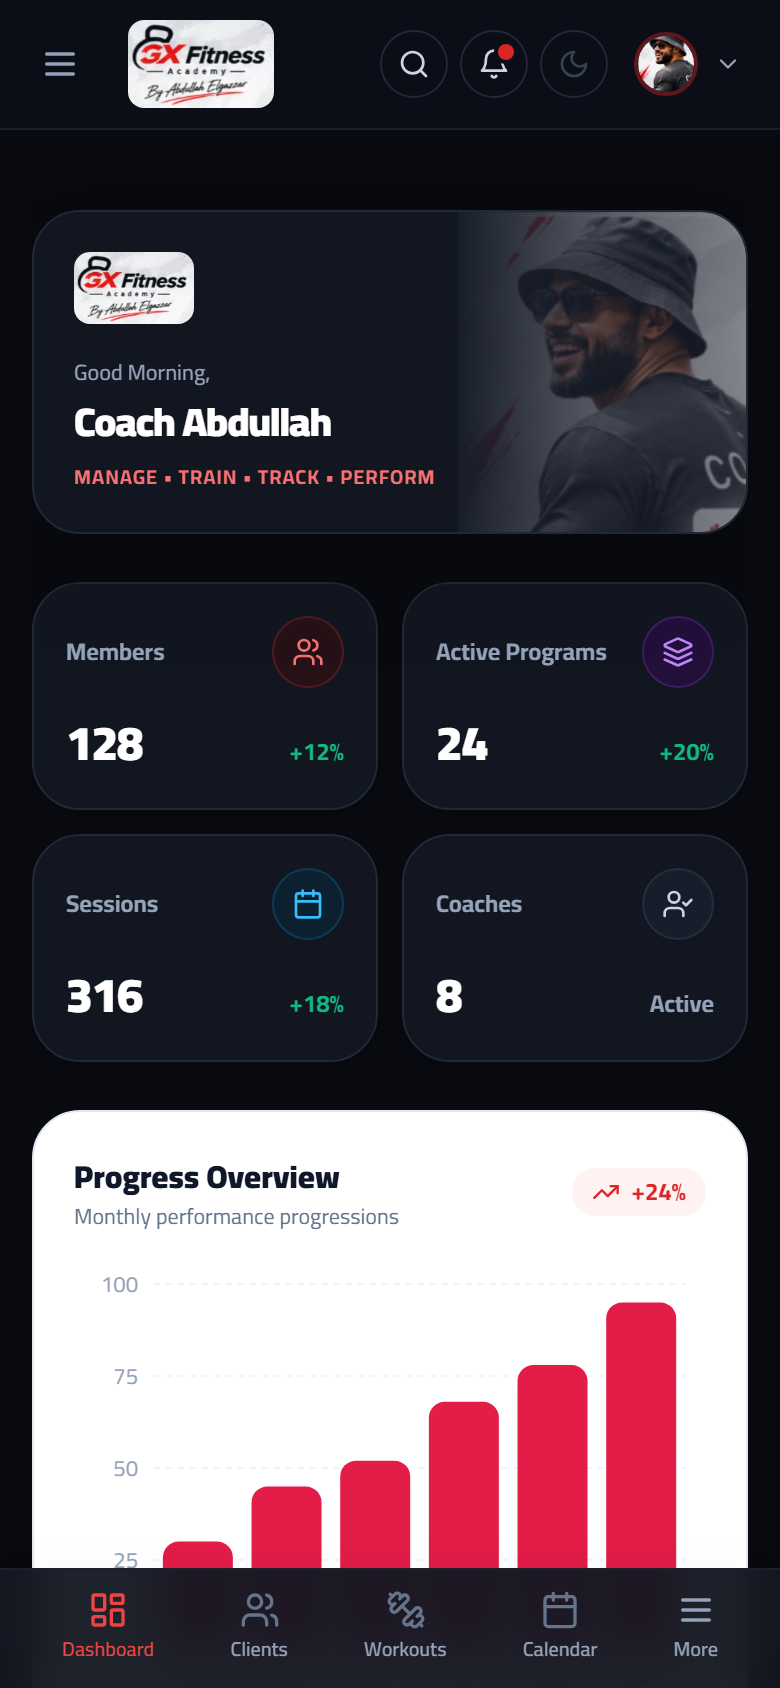
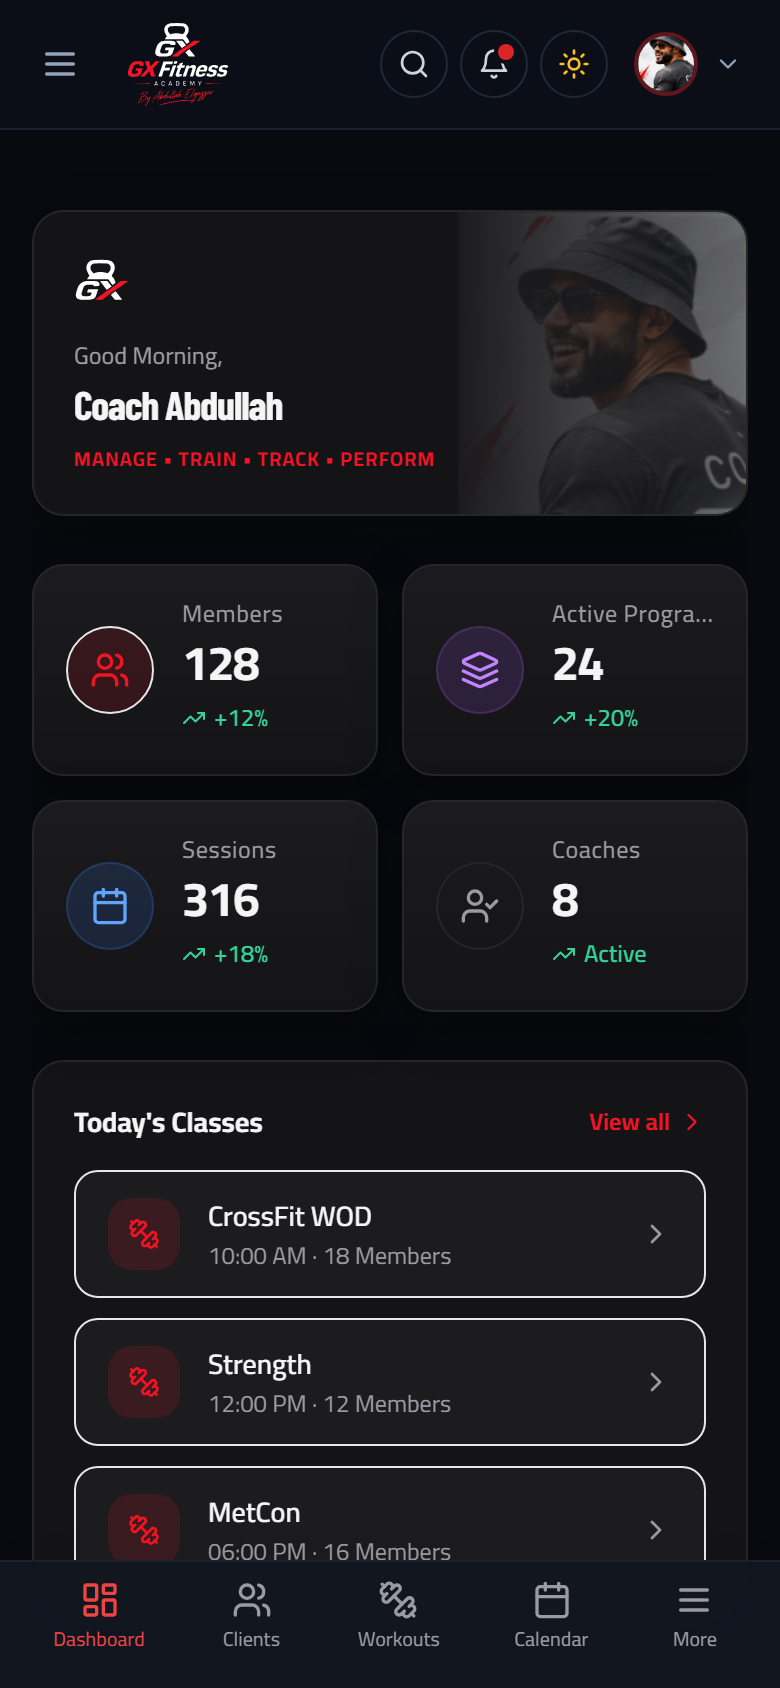
feat(dashboard): step 5 - full dashboard alignment to DESIGN.md reference across 4 views

diff --git a/src/app/dashboard/page.tsx b/src/app/dashboard/page.tsx
@@ -200,13 +200,41 @@ export default function DashboardPage() {
       </div>
 
       {/* =========================================================================
-          4. MAIN SECTION: DUAL-MODE VISUAL LAYOUT
+          4. MOBILE TODAY'S CLASSES (< lg) - EXACT MATCH TO REFERENCE
+          ========================================================================= */}
+      <div className="lg:hidden bg-card border border-line rounded-card p-5 shadow-card">
+        <div className="flex items-center justify-between mb-3.5">
+          <h2 className="text-sm font-bold text-fg">Today&apos;s Classes</h2>
+          <Link
+            href="/calendar"
+            className="text-xs font-bold text-brand hover:underline flex items-center gap-1"
+          >
+            <span>View all</span>
+            <ChevronRight className="w-3.5 h-3.5" />
+          </Link>
+        </div>
+        <div className="space-y-2.5">
+          {todayClasses.map((cls) => (
+            <ClassRow
+              key={cls.id}
+              id={cls.id}
+              title={cls.title}
+              time={cls.time}
+              members={cls.members}
+              icon={<Dumbbell className="h-4 w-4" />}
+            />
+          ))}
+        </div>
+      </div>
+
+      {/* =========================================================================
+          5. DESKTOP MAIN SECTION (≥ lg): DUAL-MODE VISUAL LAYOUT
           - Dark Mode: Members Activity Wave Chart (Span 2) + Today's Classes (Span 1)
           - Light Mode: Progress Overview + Memberships Donut + Coach Hero Cutout
           ========================================================================= */}
       {theme === "light" ? (
-        /* Light Theme Composition Matching Reference */
-        <div className="grid grid-cols-1 lg:grid-cols-12 gap-6 items-stretch">
+        /* Light Theme Desktop Composition Matching Reference */
+        <div className="hidden lg:grid lg:grid-cols-12 gap-6 items-stretch">
           {/* Progress Overview Bar Chart (Span 6) */}
           <div className="lg:col-span-6">
             <ProgressChart data={progressData} />
@@ -237,8 +265,8 @@ export default function DashboardPage() {
           </div>
         </div>
       ) : (
-        /* Dark Theme Composition Matching Reference */
-        <div className="grid grid-cols-1 lg:grid-cols-3 gap-6">
+        /* Dark Theme Desktop Composition Matching Reference */
+        <div className="hidden lg:grid lg:grid-cols-3 gap-6">
           {/* Left: Members Activity Wave Chart (Span 2) */}
           <div className="lg:col-span-2">
             <ActivityChart data={activityData} />
@@ -284,32 +312,6 @@ export default function DashboardPage() {
                 <span>Create Workout Assignment</span>
               </Link>
             </div>
-          </div>
-        </div>
-      )}
-
-      {/* =========================================================================
-          5. MOBILE TODAY'S CLASSES (RENDERED DIRECTLY ON MOBILE IN LIGHT MODE TOO)
-          ========================================================================= */}
-      {theme === "light" && (
-        <div className="sm:hidden bg-card border border-line rounded-card p-5 shadow-card">
-          <div className="flex items-center justify-between mb-3">
-            <h2 className="text-sm font-bold text-fg">Today&apos;s Classes</h2>
-            <Link href="/calendar" className="text-xs font-bold text-brand">
-              View all
-            </Link>
-          </div>
-          <div className="space-y-2.5">
-            {todayClasses.map((cls) => (
-              <ClassRow
-                key={cls.id}
-                id={cls.id}
-                title={cls.title}
-                time={cls.time}
-                members={cls.members}
-                icon={<Dumbbell className="h-4 w-4" />}
-              />
-            ))}
           </div>
         </div>
       )}

diff --git a/src/components/dashboard/KPICard.tsx b/src/components/dashboard/KPICard.tsx
@@ -63,38 +63,37 @@ export function KPICard({
         aria-hidden="true"
       />
 
-      <div className="relative z-10 flex items-center justify-between mb-3">
-        <span className="text-xs font-medium text-muted tracking-wide truncate pr-2">
-          {label}
-        </span>
+      <div className="relative z-10 flex items-center gap-3.5">
         <div
-          className={`w-10 h-10 rounded-full flex items-center justify-center border transition-transform duration-200 group-hover:scale-105 flex-shrink-0 ${accentStyle.bg} ${accentStyle.text} ${accentStyle.border}`}
+          className={`w-11 h-11 rounded-full flex items-center justify-center border transition-transform duration-200 group-hover:scale-105 flex-shrink-0 ${accentStyle.bg} ${accentStyle.text} ${accentStyle.border}`}
         >
           {icon}
         </div>
-      </div>
 
-      <div className="relative z-10 flex items-baseline justify-between gap-2">
-        <span className="text-2xl sm:text-[32px] font-bold font-sans tracking-tight tabular-nums text-fg leading-none">
-          {value}
-        </span>
-
-        {parsedDelta && (
-          <span
-            className={`inline-flex items-center gap-1 text-xs font-semibold tabular-nums ${
-              parsedDelta.positive
-                ? "text-emerald-500 dark:text-emerald-400"
-                : "text-rose-500 dark:text-rose-400"
-            }`}
-          >
-            {parsedDelta.positive ? (
-              <TrendingUp className="w-3.5 h-3.5 flex-shrink-0" aria-hidden="true" />
-            ) : (
-              <TrendingDown className="w-3.5 h-3.5 flex-shrink-0" aria-hidden="true" />
-            )}
-            <span>{parsedDelta.value}</span>
-          </span>
-        )}
+        <div className="min-w-0 flex-1">
+          <p className="text-xs font-medium text-muted tracking-wide truncate">
+            {label}
+          </p>
+          <p className="text-2xl sm:text-[28px] font-bold font-sans tracking-tight tabular-nums text-fg leading-tight mt-0.5">
+            {value}
+          </p>
+          {parsedDelta && (
+            <div
+              className={`inline-flex items-center gap-1 text-xs font-semibold tabular-nums mt-0.5 ${
+                parsedDelta.positive
+                  ? "text-emerald-500 dark:text-emerald-400"
+                  : "text-rose-500 dark:text-rose-400"
+              }`}
+            >
+              {parsedDelta.positive ? (
+                <TrendingUp className="w-3 h-3 flex-shrink-0" aria-hidden="true" />
+              ) : (
+                <TrendingDown className="w-3 h-3 flex-shrink-0" aria-hidden="true" />
+              )}
+              <span>{parsedDelta.value}</span>
+            </div>
+          )}
+        </div>
       </div>
     </div>
   );
